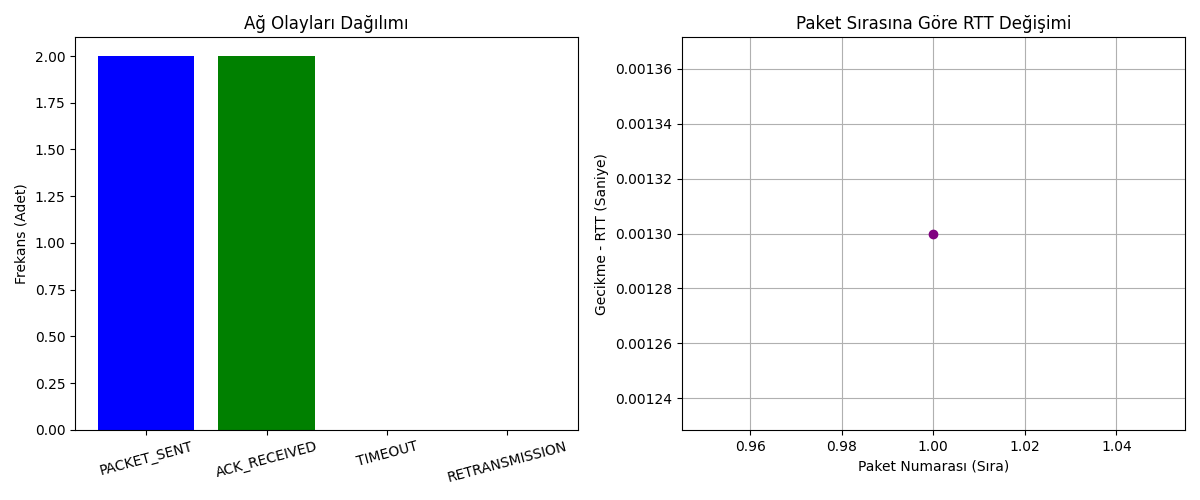
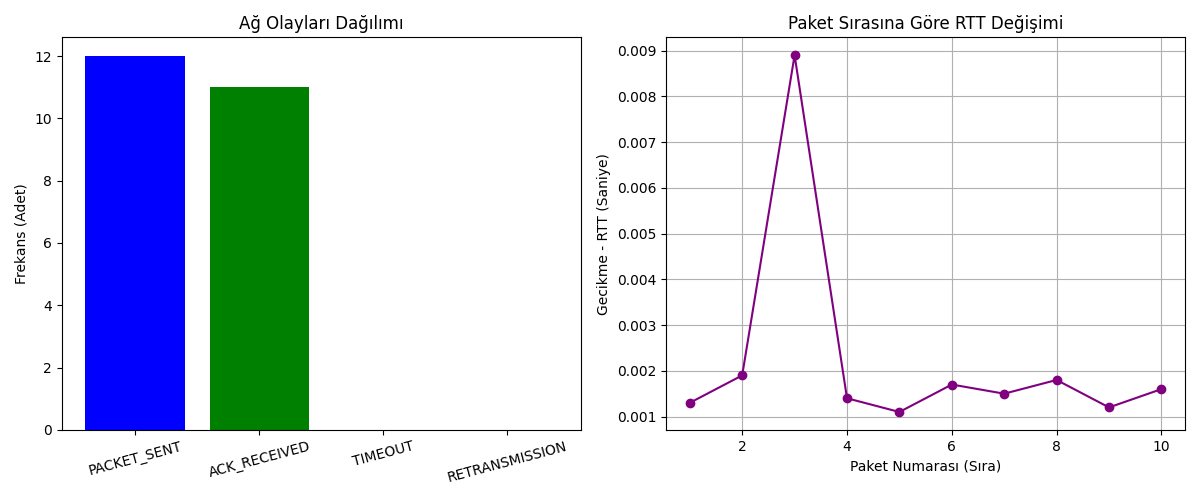
plot_explements.py oluşturuldu.

diff --git a/plot_exprements.py b/plot_exprements.py
@@ -1,0 +1,91 @@
+import matplotlib.pyplot as plt
+import os
+
+# ==============================================================================
+# 1. ADIM: DENEY SONUÇLARINI BURAYA GİRİN (analyzer.py'dan alınan değerler)
+# ==============================================================================
+
+# --- SENARYO 1: Yapay Paket Kaybı Oranının Etkisi ---
+loss_labels = ['%0 Kayıp', '%10 Kayıp', '%20 Kayıp']
+loss_throughput       = [951.23, 335.42, 450.95]  # KB/s
+loss_goodput          = [21.67, 5.73, 5.14]  # KB/s
+loss_completion_time  = [0.0032, 0.0121, 0.0135]  # Saniye
+loss_retransmission   = [0.0016, 0.0040, 0.0034]  # Yüzde (%)
+
+# --- SENARYO 2: Paket Boyutunun (Chunk Size) Etkisi ---
+size_labels = ['512 Byte', '1024 Byte', '2048 Byte']
+size_throughput       = [486.48, 497.99, 513.02]  # KB/s
+size_goodput          = [4.75, 4.25, 3.90]  # KB/s
+size_completion_time  = [0.0146, 0.0163, 0.0178]  # Saniye
+size_retransmission   = [0.0029, 0.0027, 0.0025]  # Yüzde (%)
+
+# --- SENARYO 3: Timeout Değerinin Etkisi ---
+timeout_labels = ['0.5 Saniye', '1.0 Saniye', '2.0 Saniye']
+timeout_throughput       = [517.68, 536.59, 543.56]  # KB/s
+timeout_goodput          = [3.54, 3.33, 3.10]  # KB/s
+timeout_completion_time  = [0.0196, 0.0208, 0.0224]  # Saniye
+timeout_retransmission   = [0.0024, 0.0023, 0.0022]  # Yüzde (%)
+
+
+# ==============================================================================
+# 2. ADIM: GRAFİK ÇİZİM FONKSİYONU (Aşağıya dokunmana gerek yok)
+# ==============================================================================
+
+def ciz_ve_kaydet(baslik, etiketler, throughput, goodput, completion_time, retransmission, dosya_adi):
+    fig, axs = plt.subplots(2, 2, figsize=(12, 10))
+    fig.suptitle(baslik, fontsize=16, fontweight='bold')
+
+    # 1. Throughput
+    axs[0, 0].bar(etiketler, throughput, color='royalblue', edgecolor='black')
+    axs[0, 0].set_title('Throughput Karşılaştırması')
+    axs[0, 0].set_ylabel('KB/s')
+    axs[0, 0].grid(axis='y', linestyle='--', alpha=0.7)
+
+    # 2. Goodput
+    axs[0, 1].bar(etiketler, goodput, color='forestgreen', edgecolor='black')
+    axs[0, 1].set_title('Goodput Karşılaştırması')
+    axs[0, 1].set_ylabel('KB/s')
+    axs[0, 1].grid(axis='y', linestyle='--', alpha=0.7)
+
+    # 3. Completion Time
+    axs[1, 0].bar(etiketler, completion_time, color='tomato', edgecolor='black')
+    axs[1, 0].set_title('Tamamlanma Süresi (Completion Time)')
+    axs[1, 0].set_ylabel('Saniye')
+    axs[1, 0].grid(axis='y', linestyle='--', alpha=0.7)
+
+    # 4. Retransmission Rate
+    axs[1, 1].plot(etiketler, retransmission, marker='o', color='purple', linewidth=2, markersize=8)
+    axs[1, 1].set_title('Yeniden Gönderim Oranı (Retransmission Rate)')
+    axs[1, 1].set_ylabel('% (Yüzde)')
+    axs[1, 1].grid(True, linestyle='--', alpha=0.7)
+
+    plt.tight_layout(rect=[0, 0.03, 1, 0.95])
+    
+    kayit_yolu = f"results/{dosya_adi}.png"
+    plt.savefig(kayit_yolu)
+    print(f"Grafik kaydedildi: {kayit_yolu}")
+    plt.close() # Diğer grafiklerle karışmaması için pencereyi kapat
+
+# --- GRAFİKLERİ ÜRET ---
+
+if not os.path.exists("results"):
+    os.makedirs("results")
+
+print("Grafikler oluşturuluyor...")
+
+# Senaryo 1 Çizimi
+ciz_ve_kaydet('Paket Kayıp Oranının Ağ Performansına Etkisi', 
+              loss_labels, loss_throughput, loss_goodput, loss_completion_time, loss_retransmission, 
+              'senaryo1_kayip_orani')
+
+# Senaryo 2 Çizimi
+ciz_ve_kaydet('Paket Boyutunun Ağ Performansına Etkisi', 
+              size_labels, size_throughput, size_goodput, size_completion_time, size_retransmission, 
+              'senaryo2_paket_boyutu')
+
+# Senaryo 3 Çizimi
+ciz_ve_kaydet('Timeout Değerinin Ağ Performansına Etkisi', 
+              timeout_labels, timeout_throughput, timeout_goodput, timeout_completion_time, timeout_retransmission, 
+              'senaryo3_timeout')
+
+print("Tüm işlemler tamamlandı! Grafikleri 'results' klasöründe bulabilirsin.")

diff --git a/server.py b/server.py
@@ -1,6 +1,7 @@
 import socket
 import os
-from config import SERVER_HOST, SERVER_PORT, BUFFER_SIZE
+import random  
+from config import SERVER_HOST, SERVER_PORT, BUFFER_SIZE, LOSS_RATE 
 from checksum import calculate_sha256
 from logger import log_event
 
@@ -18,6 +19,12 @@ received_sequences = set()
 with open(file_path, "wb") as file:
     while True:
         data, client_address = server_socket.recvfrom(BUFFER_SIZE)
+
+        # --- YAPAY KAYIP SİMÜLASYONU ---
+        if random.random() < LOSS_RATE:
+            print("Yapay Kayıp: Paket bilerek yok sayıldı!")
+            continue  # Döngünün başına dön, paketi işleme ve ACK gönderme
+        # -------------------------------
 
         if data.startswith(b"END|"):
             received_hash = data.decode("utf-8").split("|")[1]

diff --git a/config.py b/config.py
@@ -2,5 +2,6 @@ SERVER_HOST = "127.0.0.1"
 SERVER_PORT = 5005
 BUFFER_SIZE = 4096
 CHUNK_SIZE = 1024
-TIMEOUT = 1
+TIMEOUT = 2.0
 MAX_RETRIES = 5
+LOSS_RATE = 0.0
